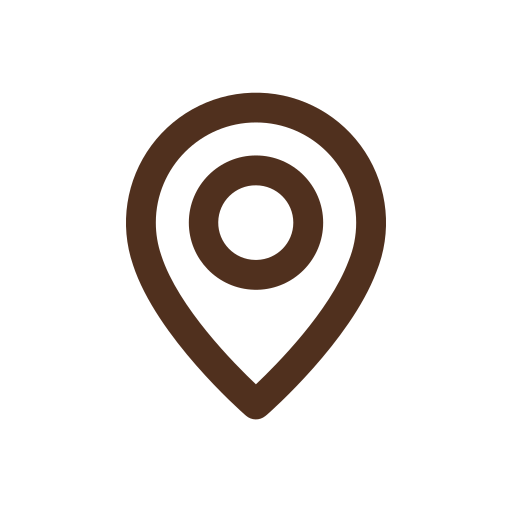
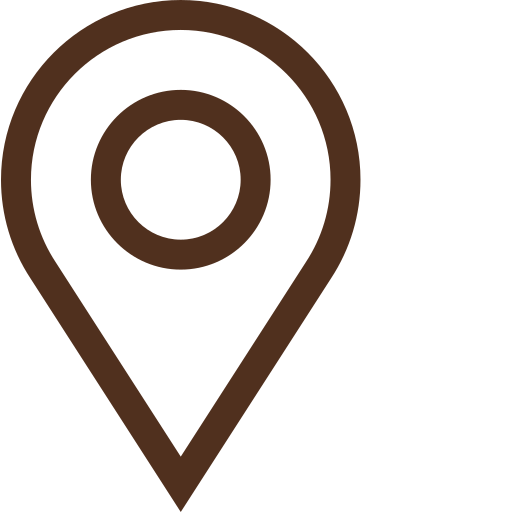
17h41

Changed region(s): [[0.0, 0.0, 0.7812, 1.0]]

diff --git a/reacttcc/src/pages/adicionar-unidade/adicionar-unidade.scss b/reacttcc/src/pages/adicionar-unidade/adicionar-unidade.scss
@@ -35,11 +35,13 @@ body{
         justify-content: center;
         align-items: center;
         flex-direction: row;
+        gap:10px;
     }
 
     .endereco input{
         width: 600px;
         padding: 10px 25px;
+        border-radius: 10px;
         
     }
 
@@ -49,11 +51,32 @@ body{
         justify-content: center;
         align-items: center;
         flex-direction: row;
+        gap:12px;
+    }
+
+    .maps{
+        display: flex;
+        justify-content: center;
+        align-items: center;
+        flex-direction: row ;
+        gap: 10px;
+    }
+
+    .maps input{
+        width: 580px;
+    }
+
+    .baixo{
+        display: flex;
+        justify-content: flex-end;
+        align-items: end;
+        flex-direction: row;
+        gap: 60px;
     }
 
     .inputs{
         display: flex;
-        justify-content: center;
+        justify-content: flex-start;
         align-items: flex-start;
         gap: 15px;
         flex-direction: column;
@@ -62,5 +85,15 @@ body{
     input{
         background-color: #ffcdbe;
         border: none;
+        padding: 10px 25px;
+        border-radius: 10px;
+    }
+
+    button{
+        border: none;
+        padding: 10px 25px;
+        border-radius: 10px;
+        background-color: #FFcdbe;
+        cursor: pointer;
     }
 }

diff --git a/reacttcc/src/pages/adicionar-unidade/adicionar-unidade.jsx b/reacttcc/src/pages/adicionar-unidade/adicionar-unidade.jsx
@@ -20,7 +20,7 @@ function AddUnidade() {
 
         <div className="inputs">
             <div className="endereco">
-              <img src="./images/localizacao.png" alt="" width={30} /><input type="text" placeholder="Insira o endereço do estabelecimento" />
+              <img src="./images/localizacao.png" alt="" width={20} /><input type="text" placeholder="Insira o endereço do estabelecimento" />
             </div>
 
             <div className="funcionamento">
@@ -30,7 +30,7 @@ function AddUnidade() {
 
         <div className="baixo">
           <div className="maps">
-            <img src="./images/maps.png" alt="" /><input type="text" />
+            <img src="./images/maps.png" alt="" width={20} /><input type="text" />
           </div>
           
           <button>Adicionar</button>

diff --git a/reacttcc/src/pages/contato/contato.jsx b/reacttcc/src/pages/contato/contato.jsx
@@ -1,6 +1,7 @@
 import './contato.scss';
 import Cabecalho from '../../components/cabecalho/cabecalho.jsx';
 import Rodape from '../../components/rodape/rodape.jsx';
+import { useState } from 'react';
 
 function Contato(){
 
@@ -91,4 +92,4 @@ function Contato(){
   );
 }
 
-export default Contato ;
+export default Contato;
